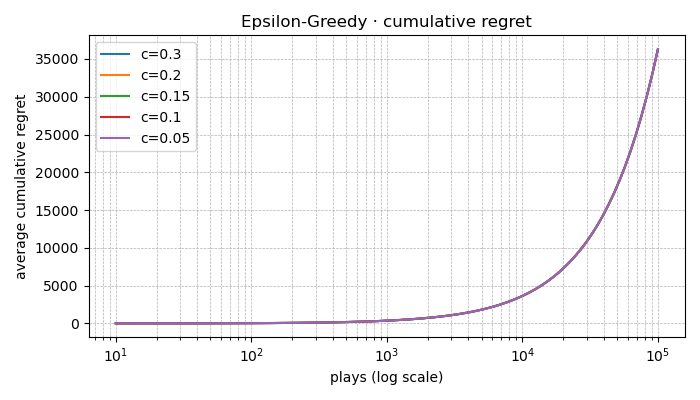
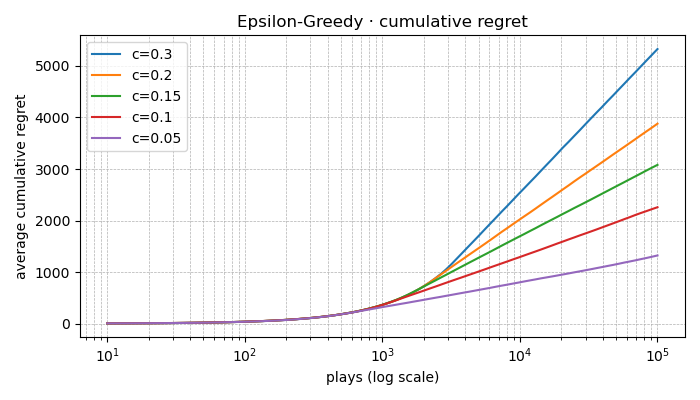
Add files via upload

diff --git a/02 Finite Time Analysis on MAB/New Experiment/Epsilon_Greedy.py b/02 Finite Time Analysis on MAB/New Experiment/Epsilon_Greedy.py
@@ -25,7 +25,9 @@ class EpsilonGreedy:
         self.p   = np.asarray(environment.p, dtype=float)
 
         # gap Δ
-        best, second_best = np.partition(self.p, -2)[-2:]
+        m = self.p.copy()
+        m = np.sort(m)
+        best, second_best = m[-1], m[-2]
         self.delta = max(best - second_best, 1e-12)
 
         self.c        = c
@@ -42,7 +44,7 @@ class EpsilonGreedy:
     def _reset(self):
         self.rewards = np.zeros(self.n)
         self.counts  = np.zeros(self.n, dtype=int)
-        self.t       = 0
+        self.t       = 1
         self.regret  = 0.0
 
     def _epsilon(self) -> float:
@@ -123,7 +125,7 @@ if __name__ == "__main__":
 
     c_list   = [0.3, 0.2, 0.15, 0.1, 0.05]   # exploration constants
     horizon  = 100_000                  # up to 10⁵ plays
-    runs     = 20                       # Monte‑Carlo repetitions
+    runs     = 100                      # Monte‑Carlo repetitions
 
     # X‑axis: log₁₀(time)
     X = np.linspace(1, 5, 100)          # 10¹ … 10⁵

diff --git a/02 Finite Time Analysis on MAB/New Experiment/Test.py b/02 Finite Time Analysis on MAB/New Experiment/Test.py
@@ -22,7 +22,7 @@ envs = [
 X      = np.linspace(1, 5, 100)              # 10¹ … 10⁵ plays
 horizon_max = int(10 ** X[-1])
 plays   = (10 ** X).astype(int)
-runs    = 20                                 # Monte‑Carlo averages
+runs    = 100                              # Monte‑Carlo averages
 
 # ---------------- helper to gather a path -----------------
 def get_path(agent, horizon=horizon_max):
@@ -44,7 +44,7 @@ for idx, env in enumerate(envs, 1):
 
     algos = {
         "UCB‑Tuned":      UCB_Tuned.UCB_Tuned(env),
-        "UCB‑2 α=0.001":  UCB_2.UCB2(env, alpha=0.001),
+        "UCB‑2 α=0.001":  UCB_2.UCB2(env, alpha=0.01),
         "ε‑Greedy c=0.1": Epsilon_Greedy.EpsilonGreedy(env, c=0.1),
         "UCB‑Normal":     UCB_Normal.UCBNormal(env)
     }

diff --git a/02 Finite Time Analysis on MAB/New Experiment/System.py b/02 Finite Time Analysis on MAB/New Experiment/System.py
@@ -15,7 +15,7 @@ class System:
         rng = np.random.default_rng(seed)
         samples = []
         for i in range(self.n):
-            sample = rng.binomial(n=1, p=self.p[i], size=times)
+            sample = rng.binomial(n=1, p=self.p[i], size=times + 10)
             samples.append(sample)
         return samples
 
